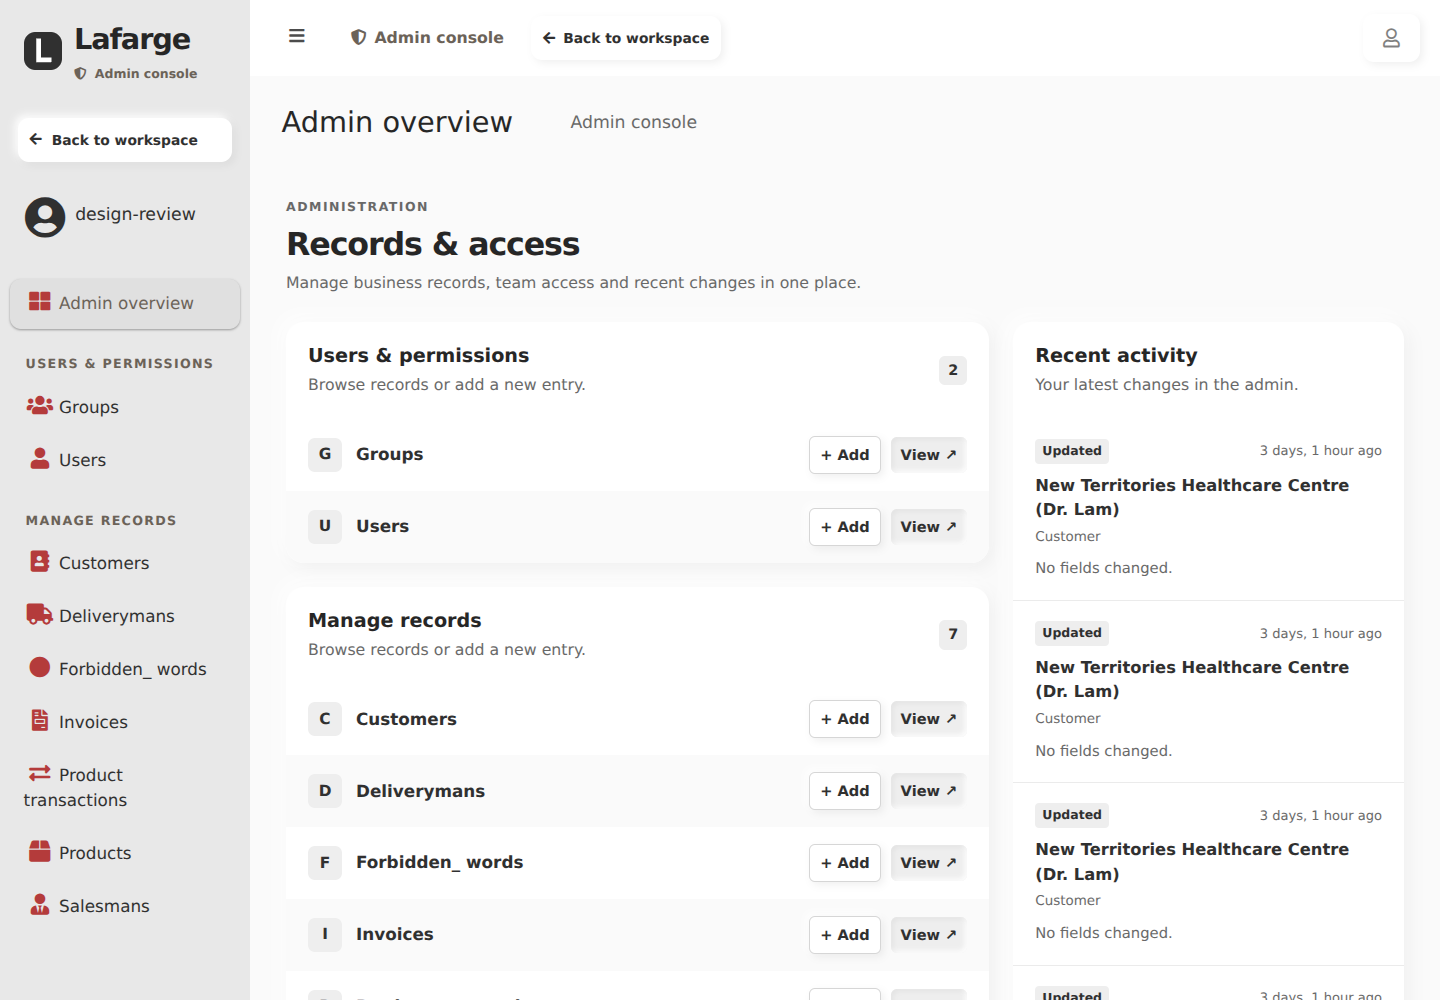
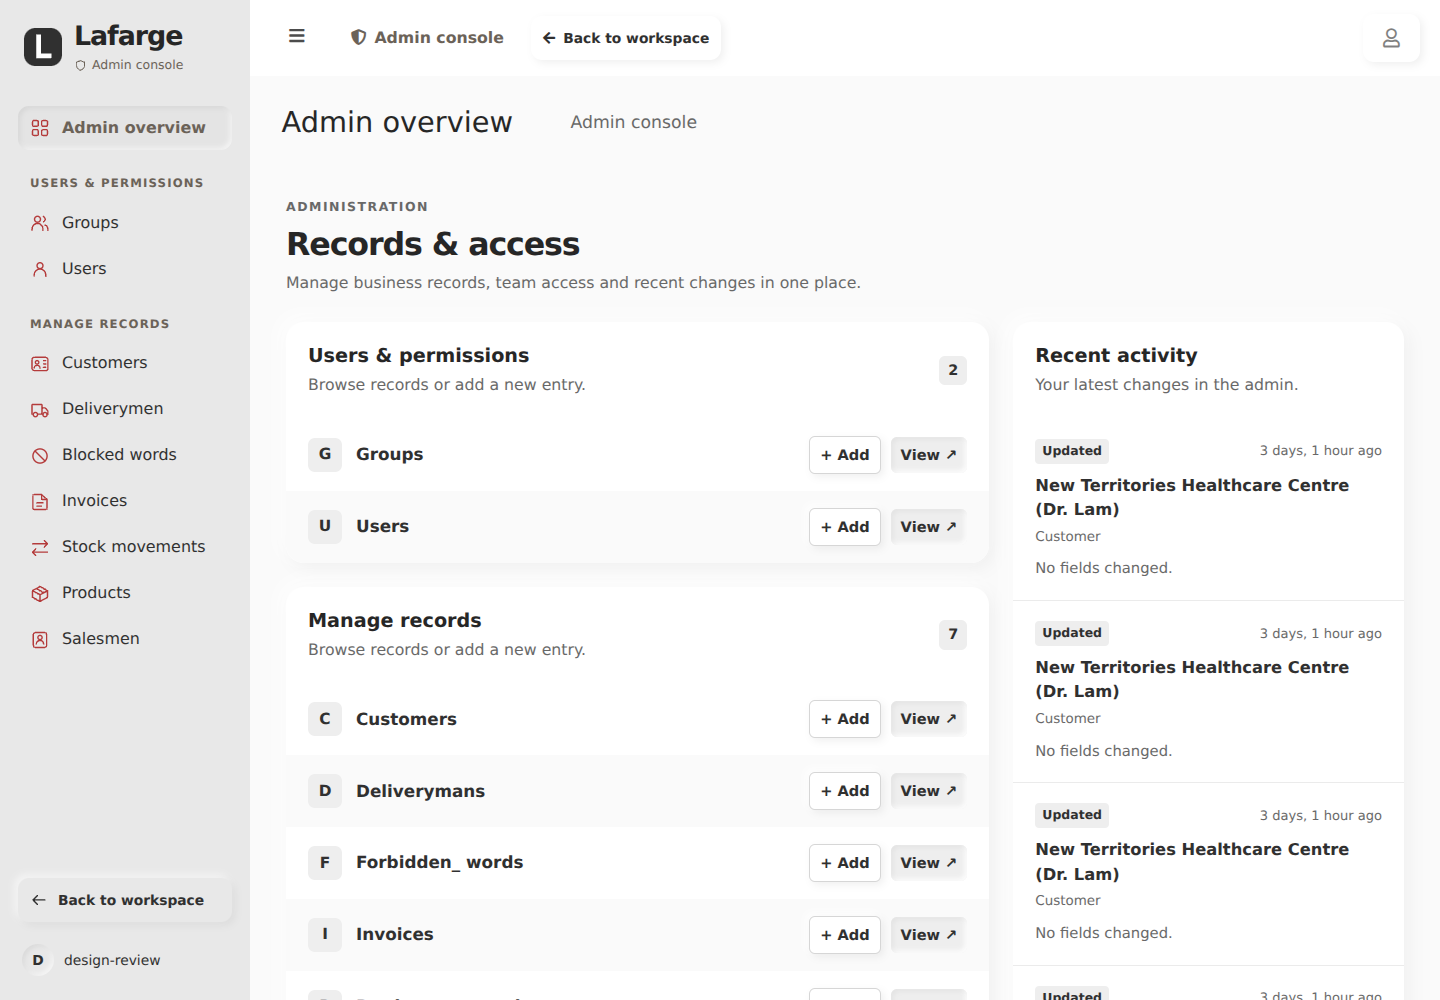
Refine Admin sidebar with clean outline navigation

diff --git a/lafarge/static/css/admin_overrides.css b/lafarge/static/css/admin_overrides.css
@@ -5,7 +5,9 @@
     --erp-admin-accent: #6b6258;
     --erp-admin-icon: #b43b3b;
     --erp-admin-sidebar: #e8e8e8;
-    --erp-admin-selected: #e0e0e0;
+    --erp-admin-selected: #e4e4e4;
+    --erp-admin-raised: 3px 3px 8px rgba(0, 0, 0, 0.06), -3px -3px 8px rgba(255, 255, 255, 0.65);
+    --erp-admin-inset: inset 2px 2px 5px rgba(0, 0, 0, 0.07), inset -2px -2px 5px rgba(255, 255, 255, 0.65);
 }
 
 /* Visual theme only: retain Jazzmin's form, inline and modal behavior below. */
@@ -218,8 +220,12 @@ body {
     display: inline-block !important;
 }
 
-/* Shared navigation geometry, with one muted accent to identify the Admin area. */
+/* Admin navigation shares the workspace's spacing, with distinct labels and icons. */
 :is(.main-sidebar, .app-sidebar) {
+    display: flex;
+    flex-direction: column;
+    height: 100vh !important;
+    height: 100dvh !important;
     border-right: 0;
     box-shadow: none !important;
 }
@@ -237,12 +243,12 @@ body {
 :is(.main-sidebar, .app-sidebar) :is(.nav-sidebar, .sidebar-menu) .nav-icon {
     color: var(--erp-admin-icon);
 }
-:is(.main-sidebar, .app-sidebar)
+:root :is(.main-sidebar, .app-sidebar)
     :is(.nav-sidebar, .sidebar-menu)
     .nav-link.active {
     background: var(--erp-admin-selected) !important;
     color: var(--erp-admin-accent) !important;
-    box-shadow: var(--erp-inset);
+    box-shadow: var(--erp-admin-inset);
 }
 :is(.content-header, .app-content-header) h1 {
     font-size: 1.8rem;
@@ -281,6 +287,7 @@ body { font-size: 0.9rem; }
 :is(.main-header, .app-header) .nav-link { color: var(--erp-muted); }
 :is(.main-sidebar, .app-sidebar) .brand-link {
     display: flex;
+    flex-shrink: 0;
     align-items: center;
     gap: 12px;
     min-height: 94px;
@@ -298,35 +305,80 @@ body { font-size: 0.9rem; }
 }
 :is(.main-sidebar, .app-sidebar) .brand-text {
     color: var(--erp-text);
-    font-size: 1.5rem;
-    font-weight: 750 !important;
+    font-size: 1.4rem;
+    line-height: 1.2;
+    font-weight: 700 !important;
     letter-spacing: -0.04em;
 }
 .admin-brand-copy { display: flex; flex-direction: column; gap: 4px; }
 :is(.main-sidebar, .app-sidebar) .admin-brand-caption {
+    display: inline-flex;
+    align-items: center;
+    gap: 5px;
     color: var(--erp-admin-accent);
     font-size: 0.65rem;
-    font-weight: 600;
+    line-height: 1.4;
+    font-weight: 500;
     letter-spacing: 0;
 }
-.admin-brand-caption i { margin-right: 4px; }
-#jazzy-sidebar > .sidebar { height: calc(100% - 94px); }
+.admin-brand-caption .nav-icon { width: 13px; height: 13px; flex: 0 0 13px; }
+#jazzy-sidebar > .sidebar {
+    display: flex;
+    flex-direction: column;
+    flex: 1;
+    min-height: 0;
+    height: auto !important;
+    padding: 12px 18px 18px;
+    overflow-x: hidden;
+}
+.admin-navigation { flex-shrink: 0; }
+.admin-sidebar-footer { margin-top: auto; padding-top: 24px; flex-shrink: 0; }
 .admin-workspace-return {
     display: flex;
     align-items: center;
     gap: 10px;
     min-height: 44px;
-    margin: 16px 8px 4px;
+    margin: 0;
     padding: 10px 12px;
-    background: var(--erp-surface);
+    background: var(--erp-admin-sidebar);
     color: var(--erp-primary) !important;
-    box-shadow: var(--erp-raised);
+    box-shadow: var(--erp-admin-raised);
     border-radius: var(--erp-control-radius);
     font-size: 0.72rem;
     font-weight: 600;
+    transition: background-color 140ms ease, box-shadow 140ms ease;
 }
+.admin-workspace-return .nav-icon { width: 18px; height: 18px; flex: 0 0 18px; }
 .admin-workspace-return:hover { background: var(--erp-subtle); }
-.admin-workspace-return:active { box-shadow: var(--erp-inset); }
+.admin-workspace-return:active { box-shadow: var(--erp-admin-inset); }
+.admin-user-link {
+    display: flex;
+    align-items: center;
+    gap: 10px;
+    min-height: 44px;
+    margin-top: 16px;
+    padding: 6px 4px;
+    border-radius: var(--erp-control-radius);
+    color: var(--erp-primary) !important;
+    font-size: 0.72rem;
+    font-weight: 500;
+}
+a.admin-user-link:hover { background: rgba(255, 255, 255, 0.3); }
+.admin-user-avatar {
+    display: grid;
+    place-items: center;
+    width: 32px;
+    height: 32px;
+    flex: 0 0 32px;
+    background: var(--erp-admin-sidebar);
+    box-shadow: var(--erp-admin-inset);
+    border-radius: 50%;
+    overflow: hidden;
+    font-size: 0.72rem;
+    font-weight: 600;
+}
+.admin-user-avatar img { width: 100%; height: 100%; object-fit: cover; }
+.admin-user-name { min-width: 0; overflow: hidden; text-overflow: ellipsis; white-space: nowrap; }
 :is(.main-sidebar, .app-sidebar) .user-panel { color: var(--erp-primary); }
 :is(.main-sidebar, .app-sidebar) a:focus-visible,
 #jazzy-navbar a:focus-visible {
@@ -378,7 +430,10 @@ body { font-size: 0.9rem; }
 #jazzy-navbar > .navbar-nav:first-child > .nav-item:nth-child(3) > .nav-link:active { box-shadow: var(--erp-inset); }
 @media (min-width: 992px) {
     .sidebar-mini.sidebar-collapse .main-sidebar:not(:hover) .admin-brand-copy,
-    .sidebar-mini.sidebar-collapse .main-sidebar:not(:hover) .admin-workspace-return span {
+    .sidebar-mini.sidebar-collapse .main-sidebar:not(:hover) .admin-workspace-return span,
+    .sidebar-mini.sidebar-collapse .main-sidebar:not(:hover) .admin-user-name,
+    .sidebar-mini.sidebar-collapse .main-sidebar:not(:hover) .nav-header,
+    .sidebar-mini.sidebar-collapse .main-sidebar:not(:hover) .nav-link p {
         display: none;
     }
     .sidebar-mini.sidebar-collapse .main-sidebar:not(:hover) .brand-link {
@@ -386,10 +441,16 @@ body { font-size: 0.9rem; }
         gap: 0;
         padding-inline: 10px;
     }
-    .sidebar-mini.sidebar-collapse .main-sidebar:not(:hover) .admin-workspace-return {
+    .sidebar-mini.sidebar-collapse .main-sidebar:not(:hover) .admin-workspace-return,
+    .sidebar-mini.sidebar-collapse .main-sidebar:not(:hover) .admin-user-link,
+    .sidebar-mini.sidebar-collapse .main-sidebar:not(:hover) .nav-sidebar .nav-link {
         justify-content: center;
         gap: 0;
         padding-inline: 0;
+        width: 100%;
+    }
+    .sidebar-mini.sidebar-collapse #jazzy-sidebar:not(:hover) > .sidebar {
+        padding-inline: 12px;
     }
 }
 @media (max-width: 575.98px) {
@@ -414,26 +475,61 @@ body { font-size: 0.9rem; }
     #jazzy-navbar > .navbar-nav:last-child { margin-left: 0 !important; }
 }
 .sidebar-brand { height: auto; padding: 0; border-bottom: 0; }
-:is(.main-sidebar, .app-sidebar) .user-panel {
-    border-bottom: 0;
-    padding-block: 16px;
-    margin-bottom: 12px;
-}
 :is(.main-sidebar, .app-sidebar) .nav-header {
     white-space: normal;
-    font-size: 0.66rem;
+    font-size: 0.61rem;
     line-height: 1.6;
-    font-weight: 700;
+    font-weight: 600;
     text-transform: uppercase;
     letter-spacing: 0.1em;
-    padding: 22px 16px 8px;
+    padding: 22px 12px 8px;
 }
-:is(.main-sidebar, .app-sidebar) .nav-link {
-    padding: 12px 14px;
-    margin-bottom: 3px;
-    font-size: 0.875rem;
+:is(.main-sidebar, .app-sidebar) :is(.nav-sidebar, .sidebar-menu) { width: 100%; margin: 0; }
+:is(.main-sidebar, .app-sidebar) :is(.nav-sidebar, .sidebar-menu) .nav-link {
+    display: flex;
+    align-items: center;
+    gap: 12px;
+    width: 100%;
+    min-height: 44px;
+    padding: 9px 12px;
+    margin-bottom: 2px;
+    font-size: 0.83rem;
+    font-weight: 500;
+    line-height: 1.4;
+    transition: background-color 140ms ease, box-shadow 140ms ease;
 }
-:is(.main-sidebar, .app-sidebar) .nav-link:hover { background: #f2f2f2; }
+:is(.main-sidebar, .app-sidebar) :is(.nav-sidebar, .sidebar-menu) .nav-link.active { font-weight: 650; }
+:is(.main-sidebar, .app-sidebar) :is(.nav-sidebar, .sidebar-menu) .nav-icon {
+    width: 20px;
+    height: 20px;
+    flex: 0 0 20px;
+    margin: 0;
+}
+:is(.main-sidebar, .app-sidebar) :is(.nav-sidebar, .sidebar-menu) .nav-link p {
+    display: flex;
+    align-items: center;
+    flex: 1;
+    min-width: 0;
+    margin: 0;
+    white-space: normal;
+    overflow-wrap: anywhere;
+}
+:is(.main-sidebar, .app-sidebar) .nav-link p > .right {
+    position: static;
+    margin-left: auto;
+    font-size: 0.6rem;
+}
+:is(.main-sidebar, .app-sidebar) .nav-link:not(.active):hover {
+    background: #eeeeee;
+    box-shadow: var(--erp-admin-raised);
+}
+:is(.main-sidebar, .app-sidebar) .nav-link:not(.active):active {
+    background: var(--erp-admin-selected);
+    box-shadow: var(--erp-admin-inset);
+}
+@media (prefers-reduced-motion: reduce) {
+    #jazzy-sidebar :is(.nav-link, .admin-workspace-return) { transition: none; }
+}
 :is(.content-header, .app-content-header) { padding: 30px 24px 22px; }
 :is(.content-header, .app-content-header) :is(h1, h3) {
     font-size: 2rem;

diff --git a/lafarge/templates/admin/includes/sidebar.html b/lafarge/templates/admin/includes/sidebar.html
@@ -5,32 +5,15 @@
         <img src="{% static jazzmin_settings.site_logo %}" alt="" class="{{ jazzmin_settings.site_logo_classes }} brand-image">
         <span class="admin-brand-copy">
             <span class="brand-text font-weight-light">{{ jazzmin_settings.site_brand }}</span>
-            <span class="admin-brand-caption"><i class="fas fa-shield-alt" aria-hidden="true"></i> {% trans "Admin console" %}</span>
+            <span class="admin-brand-caption">{% include "admin/includes/navigation_icon.html" with icon="auth" only %}{% trans "Admin console" %}</span>
         </span>
     </a>
     <div class="sidebar">
-        <a class="admin-workspace-return" href="{% url 'home' %}" aria-label="{% trans 'Back to workspace' %}" title="{% trans 'Back to workspace' %}"><i class="fas fa-arrow-left" aria-hidden="true"></i><span>{% trans "Back to workspace" %}</span></a>
-        <div class="user-panel mt-3 pb-3 mb-3 d-flex">
-            <div class="image">
-                {% if jazzmin_settings|has_jazzmin_setting:"user_avatar" %}
-                    <img src="{% get_user_avatar request.user %}" width="160px" class="img-circle elevation-2" alt="{% trans 'User image' %}">
-                {% else %}
-                    <i class="fas user-profile fa-user-circle" aria-hidden="true"></i>
-                {% endif %}
-            </div>
-            <div class="info">
-                {% if perms|can_view_self %}
-                    <a href="{% jazzy_admin_url request.user request.current_app|default:'admin' %}" class="d-block">{{ request.user }}</a>
-                {% else %}
-                    <span class="d-block">{{ request.user }}</span>
-                {% endif %}
-            </div>
-        </div>
-        <nav class="mt-2" aria-label="{% trans 'Admin navigation' %}">
+        <nav class="admin-navigation" aria-label="{% trans 'Admin navigation' %}">
             <ul class="nav nav-pills nav-sidebar flex-column {{ jazzmin_ui.sidebar_list_classes }}" data-widget="treeview" role="menu" data-collapsible="false">
                 <li class="nav-item">
-                    <a href="{% url 'admin:index' %}" class="nav-link">
-                        <i class="nav-icon fas fa-th-large" aria-hidden="true"></i><p>{% trans "Admin overview" %}</p>
+                    <a href="{% url 'admin:index' %}" class="nav-link" aria-label="{% trans 'Admin overview' %}" title="{% trans 'Admin overview' %}">
+                        {% include "admin/includes/navigation_icon.html" with icon="overview" only %}<p>{% trans "Admin overview" %}</p>
                     </a>
                 </li>
                 {% for app in side_menu_list %}
@@ -39,22 +22,22 @@
                         {% for model in app.models %}
                             <li class="nav-item">
                                 {% if model.url %}
-                                    <a href="{{ model.url }}" class="nav-link"><i class="nav-icon {{ model.icon }}" aria-hidden="true"></i><p>{{ model.name }}</p></a>
+                                    <a href="{{ model.url }}" class="nav-link" aria-label="{% include 'admin/includes/navigation_item_name.html' %}" title="{% include 'admin/includes/navigation_item_name.html' %}">{% include "admin/includes/navigation_icon.html" with icon=model.model_str only %}<p>{% include "admin/includes/navigation_item_name.html" %}</p></a>
                                 {% else %}
-                                    <span class="nav-link disabled"><i class="nav-icon {{ model.icon }}" aria-hidden="true"></i><p>{{ model.name }}</p></span>
+                                    <span class="nav-link disabled">{% include "admin/includes/navigation_icon.html" with icon=model.model_str only %}<p>{% include "admin/includes/navigation_item_name.html" %}</p></span>
                                 {% endif %}
                             </li>
                         {% endfor %}
                     {% else %}
                         <li class="nav-item has-treeview">
-                            <a href="#" class="nav-link"><i class="nav-icon {{ app.icon }}" aria-hidden="true"></i><p>{% include "admin/includes/navigation_group.html" %} <i class="fas fa-angle-left right" aria-hidden="true"></i></p></a>
+                            <a href="#" class="nav-link" aria-label="{% include 'admin/includes/navigation_group.html' %}" title="{% include 'admin/includes/navigation_group.html' %}">{% include "admin/includes/navigation_icon.html" with icon=app.app_label only %}<p>{% include "admin/includes/navigation_group.html" %} <i class="fas fa-angle-left right" aria-hidden="true"></i></p></a>
                             <ul class="nav nav-treeview" style="display: none;">
                                 {% for model in app.models %}
                                     <li class="nav-item">
                                         {% if model.url %}
-                                            <a href="{{ model.url }}" class="nav-link"><i class="nav-icon {{ model.icon }}" aria-hidden="true"></i><p>{{ model.name }}</p></a>
+                                            <a href="{{ model.url }}" class="nav-link" aria-label="{% include 'admin/includes/navigation_item_name.html' %}" title="{% include 'admin/includes/navigation_item_name.html' %}">{% include "admin/includes/navigation_icon.html" with icon=model.model_str only %}<p>{% include "admin/includes/navigation_item_name.html" %}</p></a>
                                         {% else %}
-                                            <span class="nav-link disabled"><i class="nav-icon {{ model.icon }}" aria-hidden="true"></i><p>{{ model.name }}</p></span>
+                                            <span class="nav-link disabled">{% include "admin/includes/navigation_icon.html" with icon=model.model_str only %}<p>{% include "admin/includes/navigation_item_name.html" %}</p></span>
                                         {% endif %}
                                     </li>
                                 {% endfor %}
@@ -64,5 +47,12 @@
                 {% endfor %}
             </ul>
         </nav>
+        <div class="admin-sidebar-footer">
+            <a class="admin-workspace-return" href="{% url 'home' %}" aria-label="{% trans 'Back to workspace' %}" title="{% trans 'Back to workspace' %}">{% include "admin/includes/navigation_icon.html" with icon="workspace" only %}<span>{% trans "Back to workspace" %}</span></a>
+            {% if perms|can_view_self %}<a class="admin-user-link" href="{% jazzy_admin_url request.user request.current_app|default:'admin' %}" aria-label="{% trans 'Profile for' %} {{ request.user }}" title="{{ request.user }}">{% else %}<div class="admin-user-link" title="{{ request.user }}">{% endif %}
+                <span class="admin-user-avatar" aria-hidden="true">{% if jazzmin_settings|has_jazzmin_setting:"user_avatar" %}<img src="{% get_user_avatar request.user %}" alt="">{% else %}{{ request.user.get_username|first|upper }}{% endif %}</span>
+                <span class="admin-user-name">{{ request.user }}</span>
+            {% if perms|can_view_self %}</a>{% else %}</div>{% endif %}
+        </div>
     </div>
 </aside>

diff --git a/lafarge/templates/admin/includes/navigation_icon.html b/lafarge/templates/admin/includes/navigation_icon.html
@@ -1,0 +1,27 @@
+<svg class="nav-icon" width="20" height="20" viewBox="0 0 24 24" fill="none" stroke="currentColor" stroke-width="1.7" stroke-linecap="round" stroke-linejoin="round" aria-hidden="true" focusable="false">
+{% if icon == 'auth.user' %}
+    <circle cx="12" cy="8" r="3.5"/><path d="M5 21v-2a7 7 0 0 1 14 0v2"/>
+{% elif icon == 'auth.group' %}
+    <circle cx="9" cy="7.5" r="3.5"/><path d="M2.5 21v-2a6.5 6.5 0 0 1 13 0v2M16 4.2a3.5 3.5 0 0 1 0 6.6M18 14.5a5 5 0 0 1 3.5 4.8V21"/>
+{% elif icon == 'invoice.customer' %}
+    <rect x="2.5" y="4" width="19" height="16" rx="2.5"/><circle cx="8.5" cy="10" r="2"/><path d="M5 17a3.5 3.5 0 0 1 7 0M16 8h3M16 12h3M16 16h3"/>
+{% elif icon == 'invoice.deliveryman' %}
+    <path d="M4 17H2.5V5.5h12V17H9M14.5 9.5h4l3 4V17H20M14.5 17H16"/><circle cx="6.5" cy="17.5" r="2.5"/><circle cx="18" cy="17.5" r="2.5"/>
+{% elif icon == 'invoice.forbidden_word' %}
+    <circle cx="12" cy="12" r="8.5"/><path d="m6 6 12 12"/>
+{% elif icon == 'invoice.invoice' %}
+    <path d="M14 3H5a1.5 1.5 0 0 0-1.5 1.5v15A1.5 1.5 0 0 0 5 21h14a1.5 1.5 0 0 0 1.5-1.5V9L14 3Zm0 0v6h6.5M8 13h8M8 17h6"/>
+{% elif icon == 'invoice.producttransaction' %}
+    <path d="M3 7h18m-4-4 4 4-4 4M21 17H3m4-4-4 4 4 4"/>
+{% elif icon == 'invoice.product' or icon == 'invoice' %}
+    <path d="m12 3 9 5v8l-9 5-9-5V8l9-5ZM3 8l9 5 9-5M12 13v8M7.5 5.5l9 5"/>
+{% elif icon == 'invoice.salesman' %}
+    <rect x="4" y="3" width="16" height="18" rx="2.5"/><circle cx="12" cy="9" r="2.5"/><path d="M7.5 17a4.5 4.5 0 0 1 9 0"/>
+{% elif icon == 'auth' %}
+    <path d="m12 3-7.5 3v6c0 4.4 3.2 7.2 7.5 9 4.3-1.8 7.5-4.6 7.5-9V6L12 3Z"/>
+{% elif icon == 'workspace' %}
+    <path d="M20 12H4m6-6-6 6 6 6"/>
+{% else %}
+    <rect x="3" y="3" width="7" height="7" rx="1.5"/><rect x="14" y="3" width="7" height="7" rx="1.5"/><rect x="3" y="14" width="7" height="7" rx="1.5"/><rect x="14" y="14" width="7" height="7" rx="1.5"/>
+{% endif %}
+</svg>

diff --git a/lafarge/templates/admin/includes/navigation_item_name.html b/lafarge/templates/admin/includes/navigation_item_name.html
@@ -1,0 +1,1 @@
+{% load i18n %}{% if model.model_str == 'invoice.forbidden_word' %}{% trans "Blocked words" %}{% elif model.model_str == 'invoice.deliveryman' %}{% trans "Deliverymen" %}{% elif model.model_str == 'invoice.salesman' %}{% trans "Salesmen" %}{% elif model.model_str == 'invoice.producttransaction' %}{% trans "Stock movements" %}{% else %}{{ model.name }}{% endif %}
